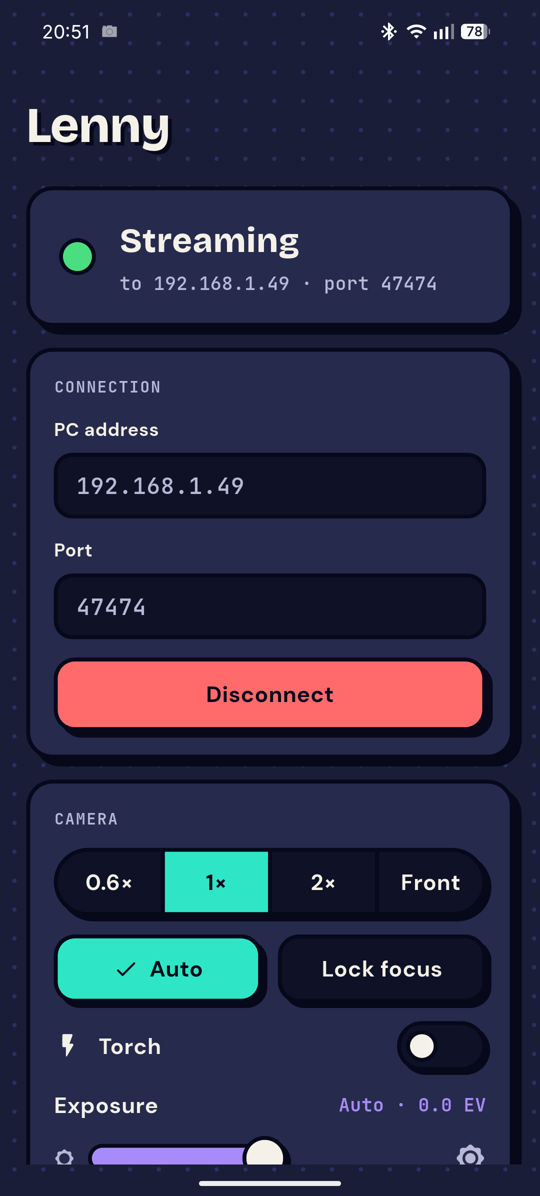
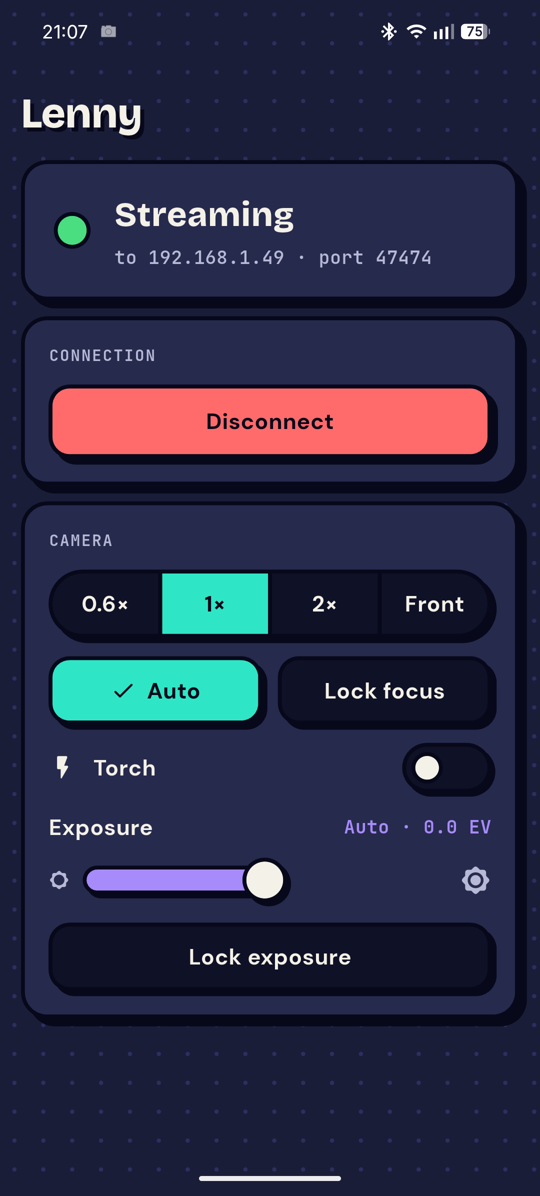
fix(ui): phone fits one screen while streaming, battery inside status pill
- phone: hide address/port fields once connected (hero shows them), tighter spacing
- desktop: "Streaming · phone · 75%" in one pill instead of a separate badge
- screenshots: camera feed censored

diff --git a/app/lib/ui/screens/sender_screen.dart b/app/lib/ui/screens/sender_screen.dart
@@ -65,10 +65,11 @@ class _SenderScreenState extends ConsumerState<SenderScreen> {
         spacing: 22,
         child: SafeArea(
           child: OrientationBuilder(builder: (context, o) {
-            final title = Text(Brand.appName, style: LennyTokens.wordmark(38));
+            final title = Text(Brand.appName, style: LennyTokens.wordmark(32));
             final hero = _StatusHero(state: s);
+            // While connected the hero already shows where to; the fields only matter before connecting.
             final connection = StickerCard(label: 'Connection', children: [
-                  StickerField(
+                  if (!s.active) StickerField(
                     label: 'PC address',
                     controller: _host,
                     enabled: !s.active,
@@ -76,7 +77,7 @@ class _SenderScreenState extends ConsumerState<SenderScreen> {
                     keyboardType: TextInputType.url,
                     textInputAction: TextInputAction.next,
                   ),
-                  StickerField(
+                  if (!s.active) StickerField(
                     label: 'Port',
                     controller: _port,
                     enabled: !s.active,
@@ -126,8 +127,8 @@ class _SenderScreenState extends ConsumerState<SenderScreen> {
                     if (s.caps.has(LENNY_CAP_EXPOSURE_LOCK))
                       ExposureLockToggle(controls: s.controls, onCommand: ctl.command),
                   ]);
-            const gap = SizedBox(height: 16);
-            Widget column(List<Widget> children) => ListView(padding: const EdgeInsets.all(20), children: children);
+            const gap = SizedBox(height: 12);
+            Widget column(List<Widget> children) => ListView(padding: const EdgeInsets.all(16), children: children);
             // Landscape: status + connection left, camera controls right, instead of one thin centered strip.
             if (o == Orientation.landscape) {
               return Row(crossAxisAlignment: CrossAxisAlignment.stretch, children: [
@@ -138,7 +139,7 @@ class _SenderScreenState extends ConsumerState<SenderScreen> {
             return Center(
               child: ConstrainedBox(
                 constraints: const BoxConstraints(maxWidth: 480),
-                child: column([title, const SizedBox(height: 20), hero, gap, connection, if (camera != null) ...[gap, camera]]),
+                child: column([title, const SizedBox(height: 12), hero, gap, connection, if (camera != null) ...[gap, camera]]),
               ),
             );
           }),

diff --git a/app/lib/ui/screens/receiver_screen.dart b/app/lib/ui/screens/receiver_screen.dart
@@ -174,6 +174,9 @@ class _Header extends StatelessWidget {
   Widget build(BuildContext context) {
     final s = state;
     final status = s.error ?? statusText(s.link, s.reason, sender: false);
+    final battery = s.link != LinkState.streaming || s.controls.battery == null
+        ? null
+        : '${s.controls.battery}%${s.controls.charging ? ' charging' : ''}';
     return Row(children: [
       Text(Brand.appName, style: LennyTokens.wordmark(46)),
       const SizedBox(width: 16),
@@ -183,16 +186,9 @@ class _Header extends StatelessWidget {
         constraints: const BoxConstraints(maxWidth: 440), // long statuses ellipsize; the rest goes to the chips
         child: StatusChip(
           color: linkColor(s.link, error: s.error != null),
-          text: s.phone != null ? '$status · ${s.phone}' : status,
+          text: [status, ?s.phone, ?battery].join(' · '),
         ),
       ),
-      if (s.link == LinkState.streaming && s.controls.battery != null) ...[
-        const SizedBox(width: 12),
-        StickerBadge(
-          text: 'Battery ${s.controls.battery}%${s.controls.charging ? ' · charging' : ''}',
-          fill: s.controls.battery! <= 20 && !s.controls.charging ? LennyTokens.coral : LennyTokens.surface,
-        ),
-      ],
       const SizedBox(width: 24),
       // Wraps under itself on narrow windows instead of overflowing.
       Expanded(
